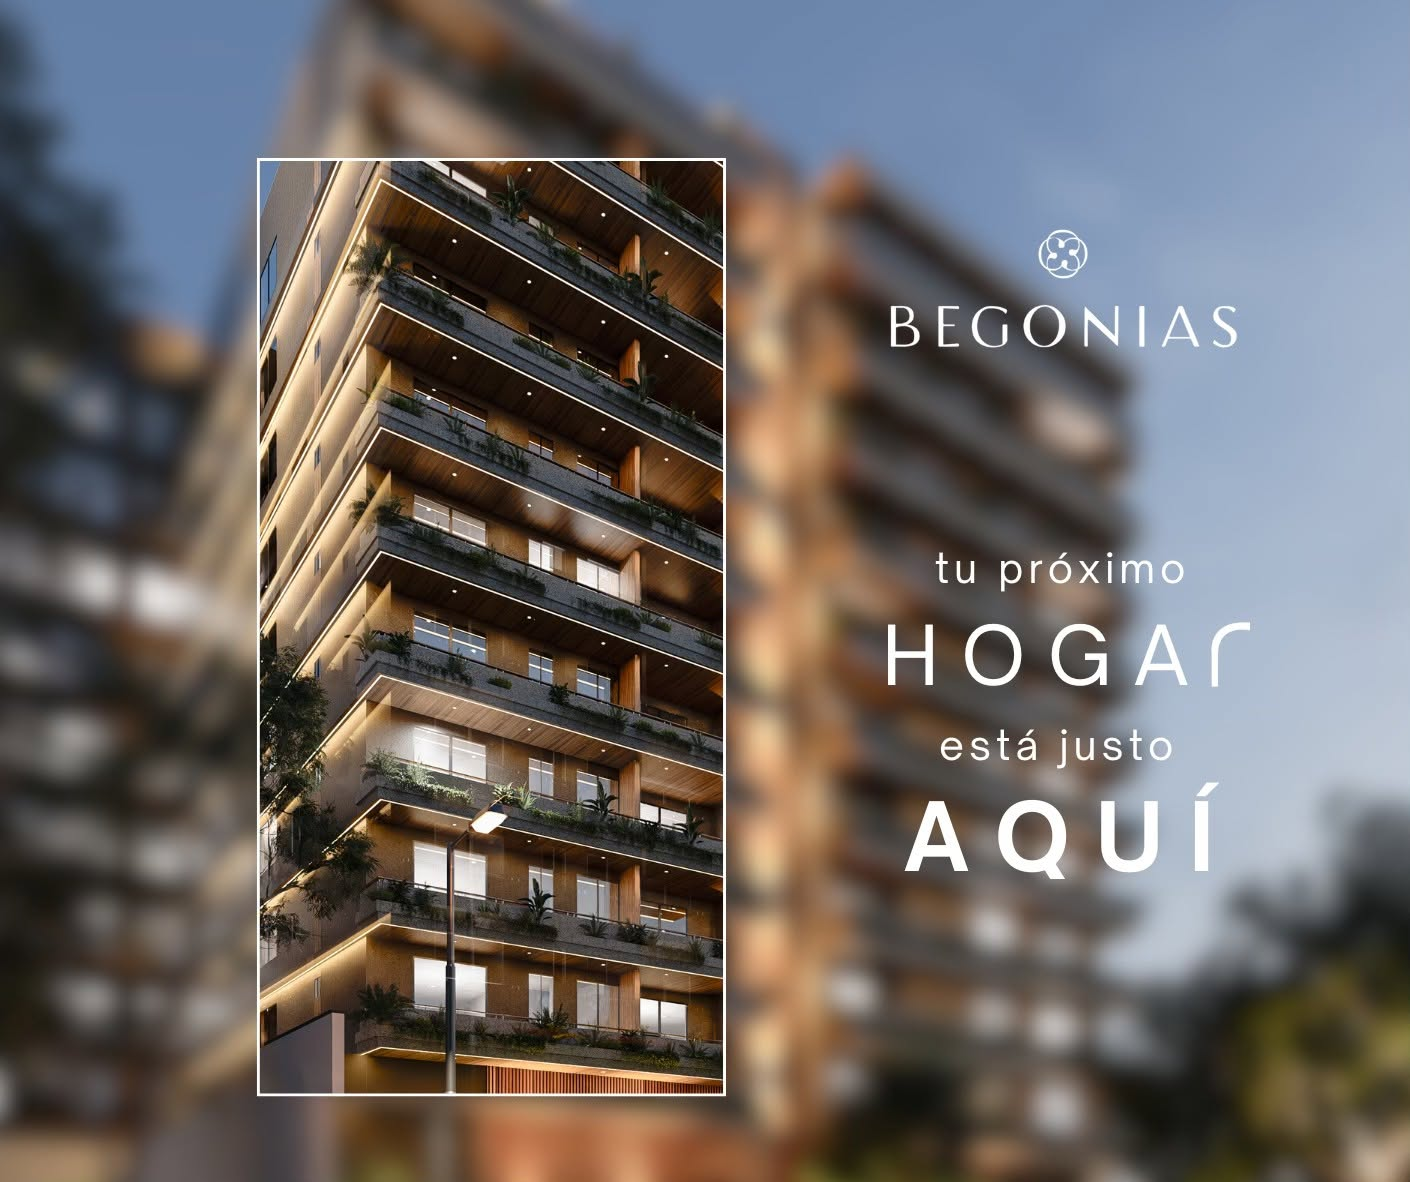
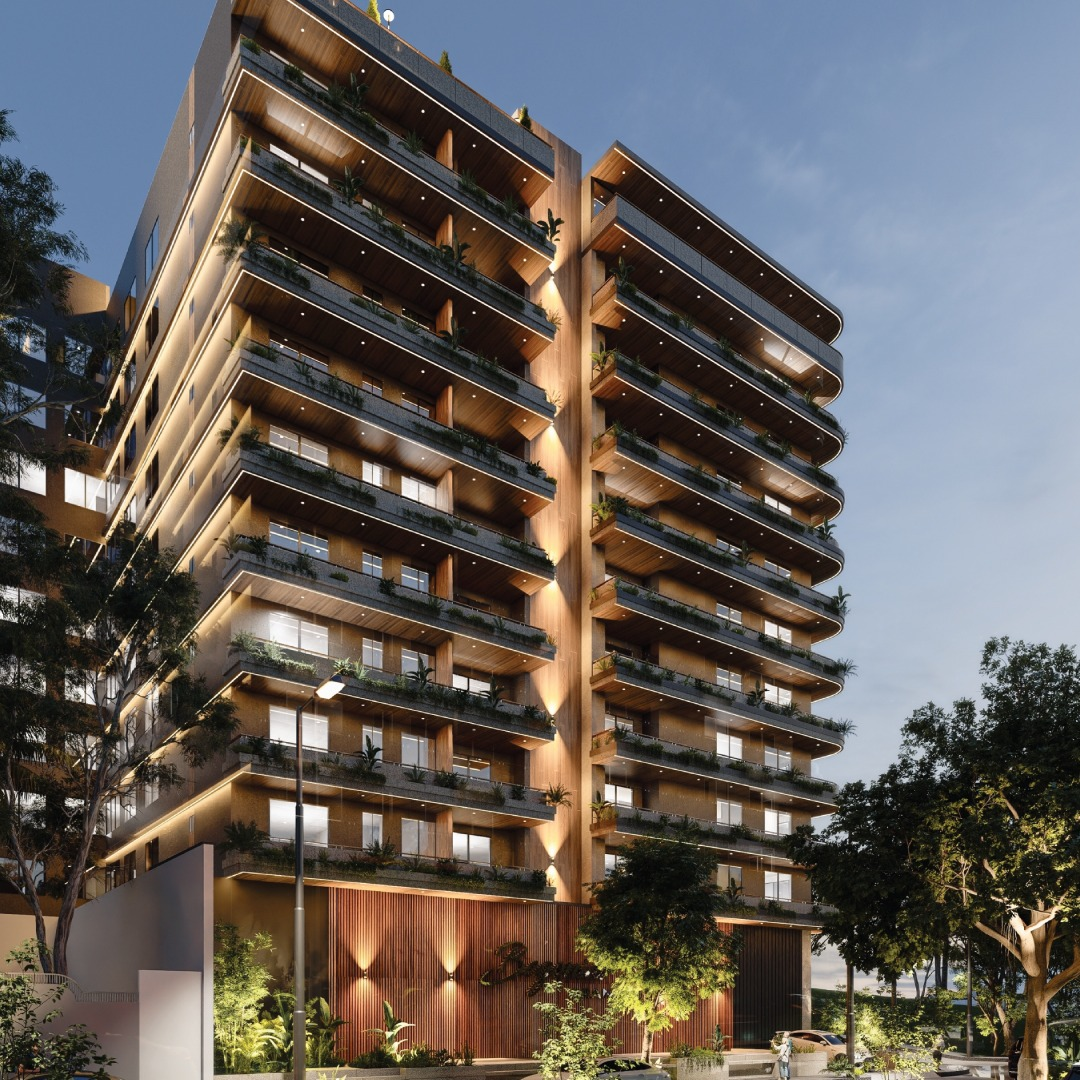
fix: data

diff --git a/frontend/src/components/layout/Footer.tsx b/frontend/src/components/layout/Footer.tsx
@@ -5,13 +5,13 @@ import Logo from "@/components/ui/Logo";
 import {
   InstagramIcon,
   FacebookIcon,
-  LinkedinIcon,
+  TikTokIcon,
 } from "@/components/ui/SocialIcons";
 
 const socials = [
   { href: "https://instagram.com", label: "Instagram", icon: InstagramIcon },
   { href: "https://facebook.com", label: "Facebook", icon: FacebookIcon },
-  { href: "https://linkedin.com", label: "LinkedIn", icon: LinkedinIcon },
+  { href: "https://tiktok.com", label: "LinkedIn", icon: TikTokIcon },
 ];
 
 export default function Footer() {
@@ -22,7 +22,7 @@ export default function Footer() {
       <div className="mx-auto max-w-7xl px-6 py-20 lg:px-10">
         <div className="grid gap-16 md:grid-cols-[1.3fr_1fr_1fr]">
           <div>
-            <Logo className="h-10 w-auto" />
+            <Logo className="h-12 w-auto" />
             <ArcDivider tone="stone" className="my-6" />
             <p className="max-w-sm text-sm leading-relaxed text-white/70">
               Diseñamos y construimos edificios residenciales en Cochabamba,
@@ -52,7 +52,7 @@ export default function Footer() {
             <ul className="mt-6 space-y-4 text-sm text-white/70">
               <li className="flex items-start gap-3">
                 <MapPin className="mt-0.5 h-4 w-4 shrink-0" strokeWidth={1.5} />
-                Av. Ballivián y Calle México, Cochabamba, Bolivia
+                Av. Las Begonias / calle Los Sauces , Cochabamba, Bolivia
               </li>
               <li className="flex items-center gap-3">
                 <Phone className="h-4 w-4 shrink-0" strokeWidth={1.5} />

diff --git a/frontend/src/components/ui/SocialIcons.tsx b/frontend/src/components/ui/SocialIcons.tsx
@@ -30,14 +30,14 @@ export function FacebookIcon(props: IconProps) {
   );
 }
 
-export function LinkedinIcon(props: IconProps) {
+export function TikTokIcon(props: IconProps) {
   return (
-    <svg {...base} {...props}>
-      <rect x="3" y="3" width="18" height="18" rx="5" />
-      <line x1="7.8" y1="10.5" x2="7.8" y2="16.5" />
-      <circle cx="7.8" cy="7.3" r="0.4" fill="currentColor" stroke="none" />
-      <path d="M11.5 16.5v-3.6c0-1.3.9-2.4 2.2-2.4s2 .9 2 2.4v3.6" />
-      <line x1="11.5" y1="10.5" x2="11.5" y2="16.5" />
+    <svg
+      viewBox="0 0 24 24"
+      fill="currentColor"
+      {...props}
+    >
+      <path d="M19.59 6.69a4.83 4.83 0 0 1-3.77-4.28h-3.12v12.2a2.53 2.53 0 1 1-2.53-2.53c.28 0 .55.04.8.13V9.05a5.65 5.65 0 0 0-.8-.06A5.66 5.66 0 1 0 15.82 14V8.68a7.92 7.92 0 0 0 4.18 1.19V6.69h-.41z" />
     </svg>
   );
 }

diff --git a/frontend/src/components/layout/Header.tsx b/frontend/src/components/layout/Header.tsx
@@ -42,7 +42,7 @@ export default function Header() {
     >
       <div className="mx-auto flex max-w-7xl items-center justify-between px-6 lg:px-10">
         <Link href="/" aria-label="Bernales Constructora — inicio">
-          <Logo className="h-9 w-auto sm:h-12" />
+          <Logo className="h-9 w-auto sm:h-11" />
         </Link>
 
         <nav className="hidden items-center gap-10 md:flex">
